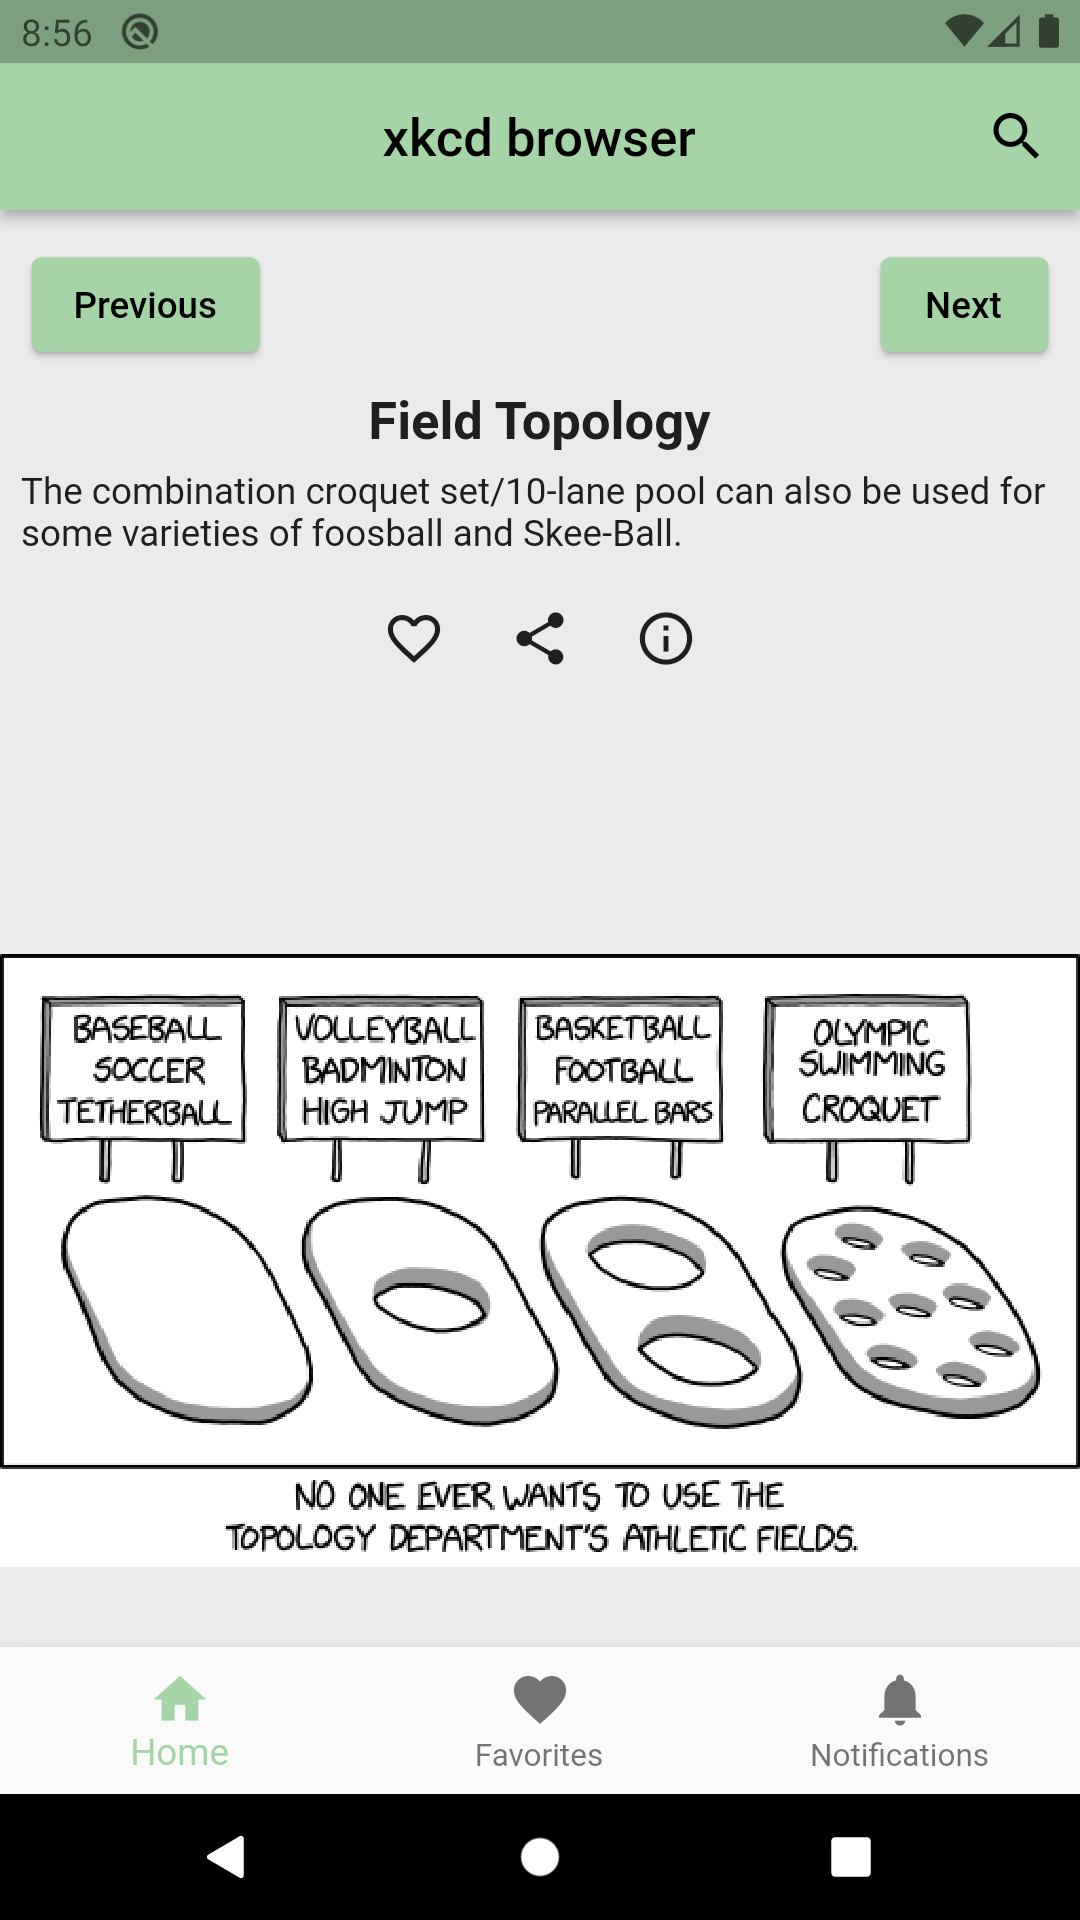
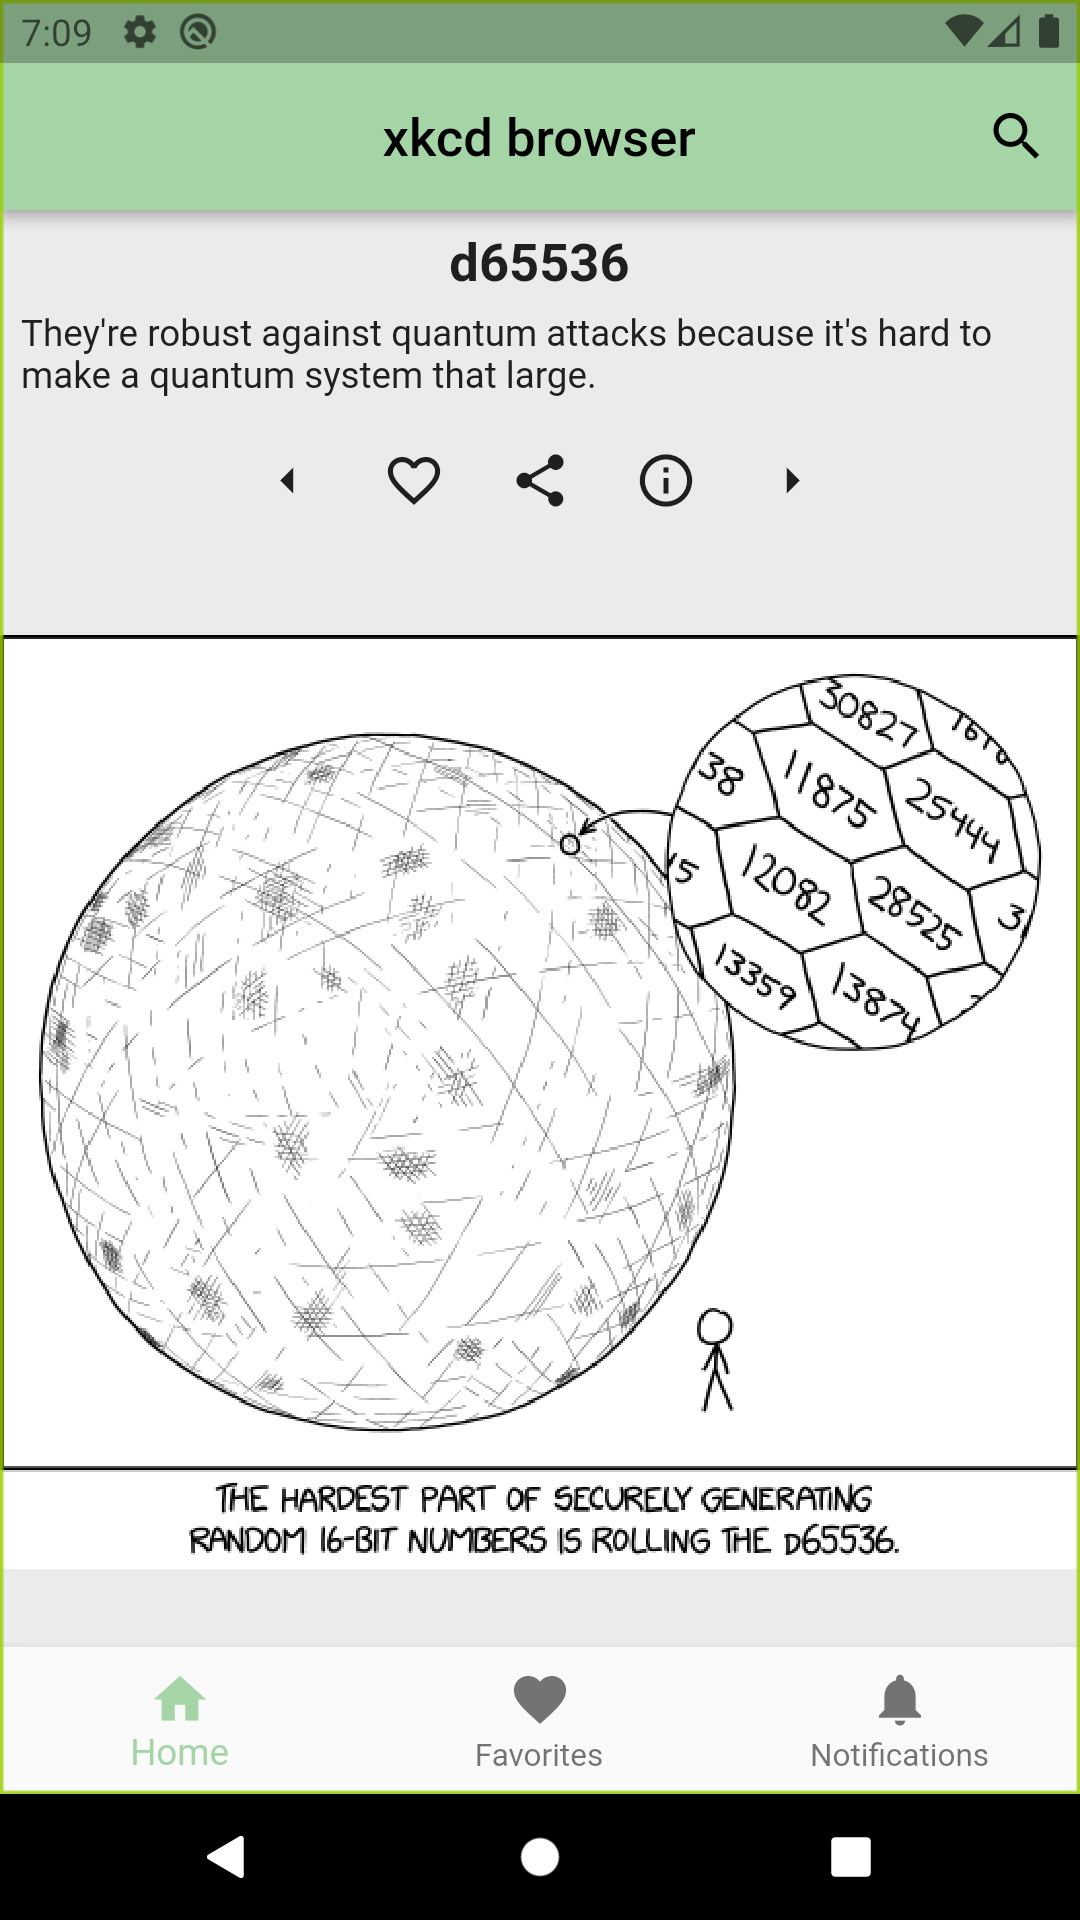
Navigation buttons were modified

diff --git a/lib/ui/comic_details_widget.dart b/lib/ui/comic_details_widget.dart
@@ -16,9 +16,12 @@ import '../util/widget_keys.dart' as keys;
 class ComicDetailsWidget extends StatelessWidget {
   final Comic? comic;
   final bool isFavoriteButtonAvailable;
+  final bool isNavigationAvailable;
   final ComicBloc _comicBloc = GetIt.I<ComicBloc>();
 
-  ComicDetailsWidget({Key? key, required this.comic, this.isFavoriteButtonAvailable = true}) : super(key: key);
+  ComicDetailsWidget(
+      {Key? key, required this.comic, this.isFavoriteButtonAvailable = true, this.isNavigationAvailable = false})
+      : super(key: key);
 
   @override
   Widget build(BuildContext context) {
@@ -43,6 +46,12 @@ class ComicDetailsWidget extends StatelessWidget {
           Row(
             mainAxisAlignment: MainAxisAlignment.center,
             children: [
+              if (isNavigationAvailable)
+                IconButton(
+                    key: const Key(keys.previousButtonKey),
+                    tooltip: tr('previous'),
+                    onPressed: () async => await _comicBloc.changeComic(ComicChangeMode.previous),
+                    icon: const Icon(Icons.arrow_left)),
               if (isFavoriteButtonAvailable)
                 StreamBuilder<List<Comic>>(
                     stream: _comicBloc.savedComicStream,
@@ -89,6 +98,12 @@ class ComicDetailsWidget extends StatelessWidget {
                 icon: const Icon(Icons.info_outline),
                 tooltip: tr('explain'),
               ),
+              if (isNavigationAvailable)
+                IconButton(
+                    key: const Key(keys.nextButtonKey),
+                    tooltip: tr('next'),
+                    onPressed: () async => await _comicBloc.changeComic(ComicChangeMode.next),
+                    icon: const Icon(Icons.arrow_right)),
             ],
           ),
           if (comic?.imageUrl != null)

diff --git a/lib/ui/home.dart b/lib/ui/home.dart
@@ -187,34 +187,9 @@ class _HomePageState extends State<HomePage> {
 
           var comic = snapshot.data;
 
-          return Column(
-            children: [
-              Padding(
-                padding: const EdgeInsets.only(
-                  left: 12.0,
-                  right: 12.0,
-                  top: 12.0,
-                ),
-                child: Row(
-                  mainAxisAlignment: MainAxisAlignment.spaceBetween,
-                  children: [
-                    ElevatedButton(
-                        key: const Key(keys.previousButtonKey),
-                        onPressed: () async => await _comicBloc.changeComic(ComicChangeMode.previous),
-                        child: const Text('previous').tr()),
-                    ElevatedButton(
-                        key: const Key(keys.nextButtonKey),
-                        onPressed: () async => await _comicBloc.changeComic(ComicChangeMode.next),
-                        child: const Text('next').tr()),
-                  ],
-                ),
-              ),
-              Expanded(
-                child: ComicDetailsWidget(
-                  comic: comic,
-                ),
-              ),
-            ],
+          return ComicDetailsWidget(
+            comic: comic,
+            isNavigationAvailable: true,
           );
         });
   }
